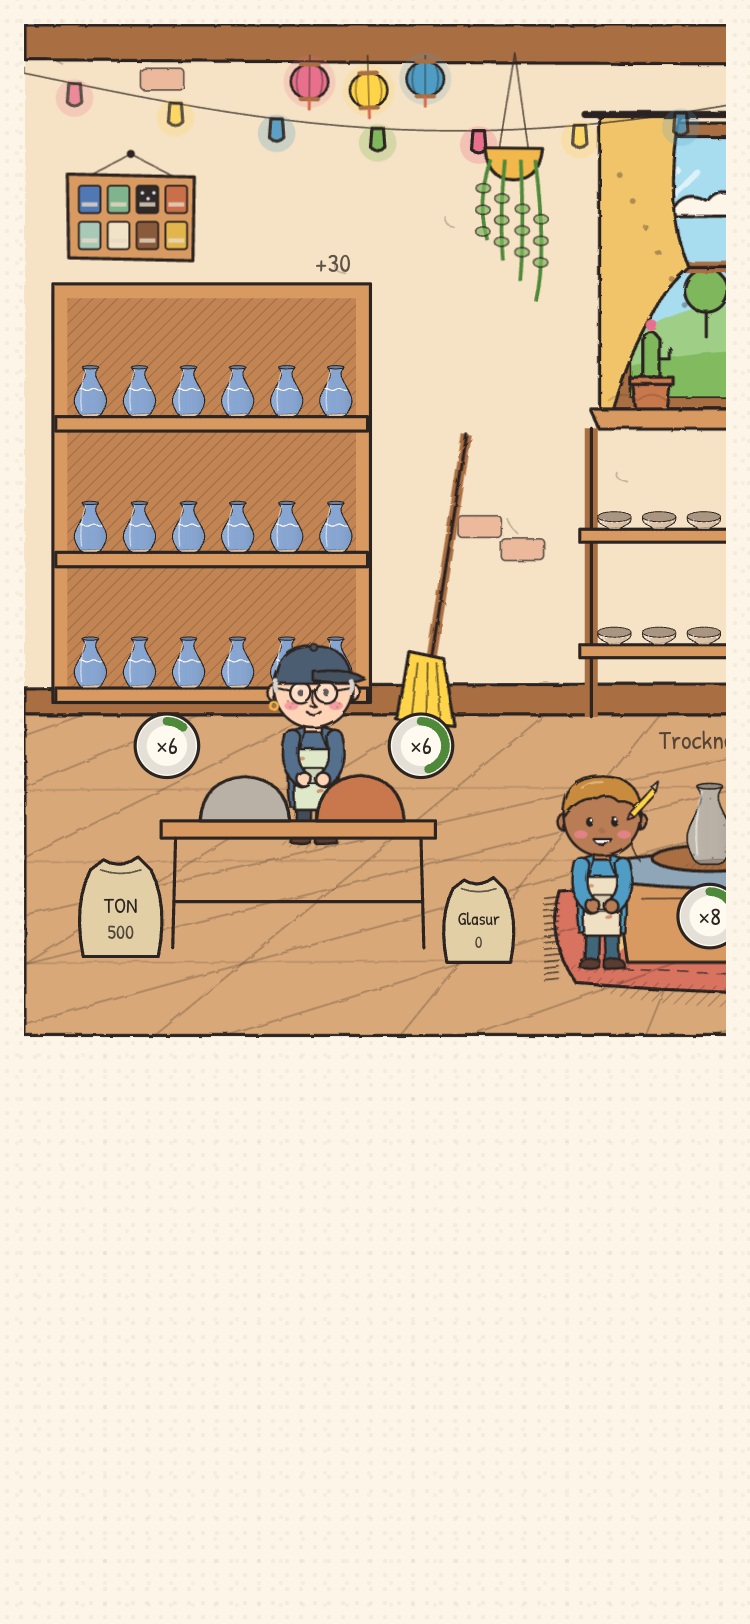
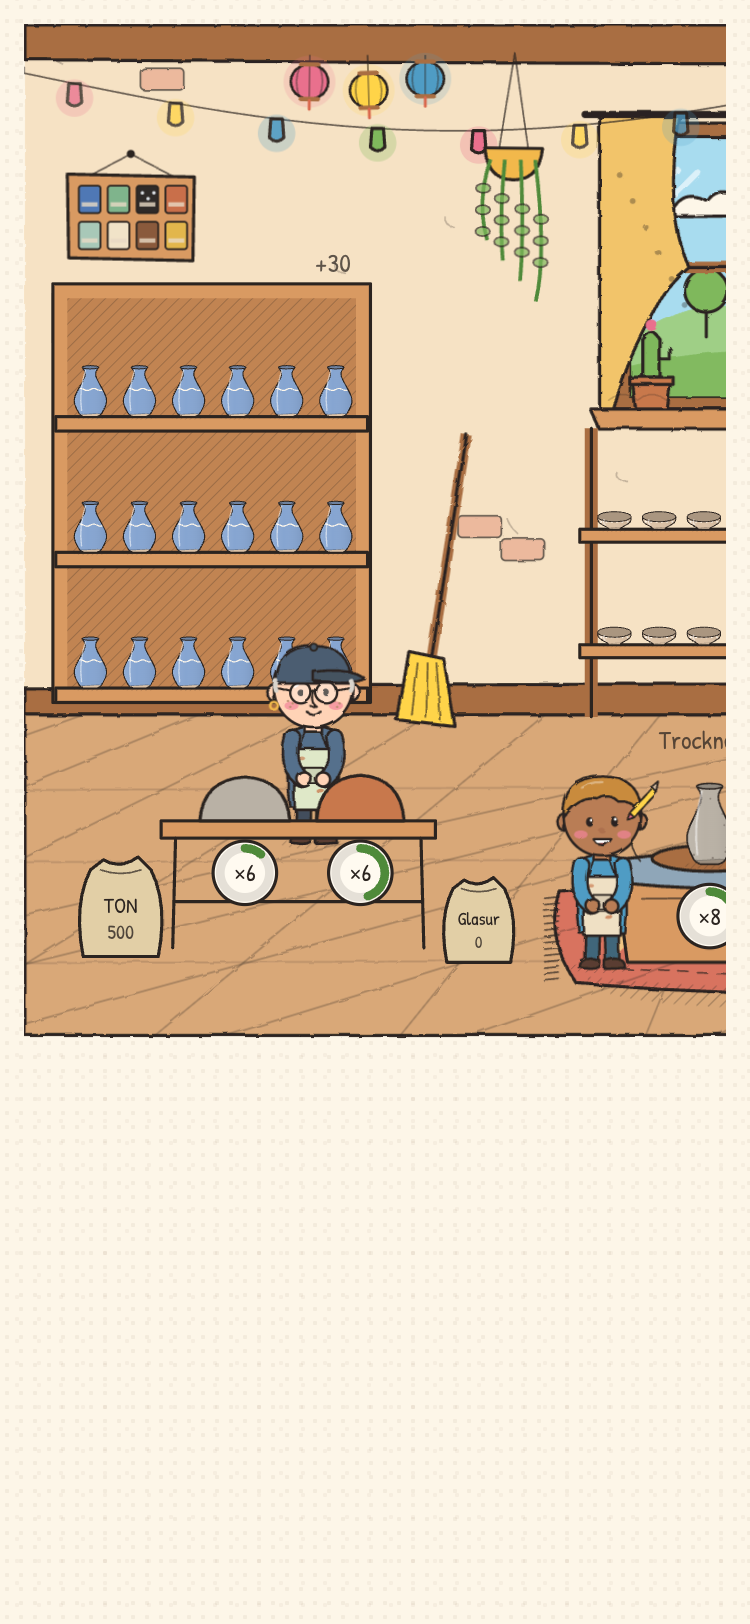
feat(art): overlays for the eight stoneware/porcelain effects; masterwork star off the worker
- Ölfleck, Hasenfell, Shino, Salzglasur, Blanc de Chine, Blau-Weiß, Ochsenblut, Eierschale overlays (≤ 40 elements each)
- Masterwork star sits by the pot (1–2 bays) or on its gauge (glaze table with 3 bays, prep bench)
- #pots "Edle Effekte" section; #scene dev flags &mw=<station>&bays=n; refreshed screenshots

diff --git a/src/client/art/Pot.tsx b/src/client/art/Pot.tsx
@@ -189,6 +189,103 @@ export function Effect({ s, effect, seed, base }: { s: PotShape; effect: string;
           })}
         </g>
       );
+    case 'oelfleck':
+      // silvery oil-spot drops floating on the upper two thirds, each with a tiny bright core
+      return (
+        <g data-effect="oelfleck">
+          {Array.from({ length: 12 }, (_, i) => {
+            const x = CX - w * 0.85 + rnd(seed, i) * 1.7 * w, y = top + 4 + rnd(seed, i + 20) * h * 0.6, r = 1 + rnd(seed, i + 40) * 1.5;
+            return (
+              <g>
+                <circle cx={x.toFixed(1)} cy={y.toFixed(1)} r={r.toFixed(2)} fill="#e8eef2" opacity="0.6" />
+                <circle cx={(x - r * 0.3).toFixed(1)} cy={(y - r * 0.3).toFixed(1)} r={(r * 0.4).toFixed(2)} fill="#fff" opacity="0.75" />
+              </g>
+            );
+          })}
+        </g>
+      );
+    case 'hasenfell': {
+      // fine brown hare's-fur streaks running down from below the rim
+      const n = 12;
+      return (
+        <g data-effect="hasenfell" stroke-linecap="round" fill="none" opacity="0.65">
+          {Array.from({ length: n }, (_, i) => {
+            const x = CX - w + ((i + 0.5) / n) * 2 * w + (rnd(seed, i) - 0.5) * 2.4;
+            const y0 = top + h * 0.15 + rnd(seed, i + 30) * 3, len = h * (0.3 + rnd(seed, i + 60) * 0.3);
+            const bend = (rnd(seed, i + 90) - 0.5) * 3;
+            return <path d={`M${x.toFixed(1)} ${y0.toFixed(1)} q${bend.toFixed(1)} ${(len / 2).toFixed(1)} ${(bend * 0.4).toFixed(1)} ${len.toFixed(1)}`} stroke={i % 3 === 1 ? '#e8b878' : '#5a3418'} stroke-width={(0.8 + rnd(seed, i + 120) * 0.6).toFixed(2)} />;
+          })}
+        </g>
+      );
+    }
+    case 'shino':
+      // milky glaze with a few warm, soft blushes (two layers each so the edge stays soft)
+      return (
+        <g data-effect="shino">
+          {Array.from({ length: 4 }, (_, i) => {
+            const x = CX - w * 0.75 + rnd(seed, i) * 1.5 * w, y = top + 6 + rnd(seed, i + 10) * (h - 14);
+            const rx = 6 + rnd(seed, i + 20) * 6, ry = 4 + rnd(seed, i + 30) * 4;
+            return (
+              <g fill="#e89a6a">
+                <ellipse cx={x.toFixed(1)} cy={y.toFixed(1)} rx={(rx * 1.35).toFixed(1)} ry={(ry * 1.35).toFixed(1)} opacity="0.18" />
+                <ellipse cx={x.toFixed(1)} cy={y.toFixed(1)} rx={rx.toFixed(1)} ry={ry.toFixed(1)} opacity="0.3" />
+              </g>
+            );
+          })}
+        </g>
+      );
+    case 'salzglasur': {
+      // orange-peel skin: a dense stipple a shade darker than the glaze
+      const ink = mix(base, '#000000', 0.25);
+      return (
+        <g data-effect="salzglasur" fill={ink} opacity="0.5">
+          {Array.from({ length: 36 }, (_, i) => <circle cx={(CX - w + rnd(seed, i) * 2 * w).toFixed(1)} cy={(top + 2 + rnd(seed, i + 50) * (h - 4)).toFixed(1)} r={(0.6 + rnd(seed, i + 100) * 0.4).toFixed(2)} />)}
+        </g>
+      );
+    }
+    case 'blancdechine':
+      // warm ivory wash with one soft vertical highlight
+      return (
+        <g data-effect="blancdechine">
+          <rect x="0" y={top} width="100" height={h} fill="#fff4dc" opacity="0.3" />
+          <path d={`M${(CX + w * 0.4).toFixed(1)} ${(top + h * 0.15).toFixed(1)} L${(CX + w * 0.36).toFixed(1)} ${(top + h * 0.8).toFixed(1)}`} stroke="#fffdf6" stroke-width="3" stroke-linecap="round" opacity="0.4" />
+        </g>
+      );
+    case 'blauweiss': {
+      // one or two cobalt brush tendrils with little leaves, painted under the clear glaze
+      const tendrils = 1 + Math.floor(rnd(seed, 1) * 2);
+      return (
+        <g data-effect="blauweiss" stroke="#22408a" fill="none" stroke-linecap="round" opacity="0.8">
+          {Array.from({ length: tendrils }, (_, t) => {
+            const y = top + h * (tendrils === 1 ? 0.45 : 0.3 + t * 0.35) + (rnd(seed, t + 5) - 0.5) * 4;
+            const amp = 3 + rnd(seed, t + 7) * 2, x0 = CX - w - 2, step = (2 * w + 4) / 4;
+            let d = `M${x0.toFixed(1)} ${y.toFixed(1)}`;
+            for (let k = 0; k < 4; k++) d += ` q${(step / 2).toFixed(1)} ${(k % 2 ? amp : -amp).toFixed(1)} ${step.toFixed(1)} 0`;
+            const leaves = Array.from({ length: 4 }, (_, k) => {
+              const lx = x0 + step * (k + 0.5), ly = y + (k % 2 ? amp : -amp) * 0.5, dir = k % 2 ? 1 : -1;
+              return <path d={`M${lx.toFixed(1)} ${ly.toFixed(1)} q${(3 * dir).toFixed(1)} ${(-4.5 * dir).toFixed(1)} ${(6.5 * dir).toFixed(1)} ${(-2 * dir).toFixed(1)} q${(-3 * dir).toFixed(1)} ${(3.4 * dir).toFixed(1)} ${(-6.5 * dir).toFixed(1)} ${(2 * dir).toFixed(1)} Z`} fill="#22408a" stroke-width="0.6" />;
+            });
+            return <g><path d={d} stroke-width="1.4" />{leaves}</g>;
+          })}
+        </g>
+      );
+    }
+    case 'ochsenblut':
+      // deep red pooling towards the foot, fading up to the glaze colour, and a lighter line where the glaze thins at the rim
+      return (
+        <g data-effect="ochsenblut">
+          <rect x="0" y={top} width="100" height={h} fill="url(#ochsenblut-pool)" />
+          <path d={`M${(CX - w).toFixed(1)} ${(top + 3).toFixed(1)} Q${CX} ${(top + 6).toFixed(1)} ${(CX + w).toFixed(1)} ${(top + 3).toFixed(1)}`} stroke={mix(base, '#ffffff', 0.45)} stroke-width="1.4" fill="none" opacity="0.6" />
+        </g>
+      );
+    case 'eierschale':
+      // eggshell-thin: a pale, translucent band at the top and a faint glow from inside
+      return (
+        <g data-effect="eierschale">
+          <ellipse cx={CX} cy={(top + h * 0.55).toFixed(1)} rx={(w * 0.65).toFixed(1)} ry={(h * 0.3).toFixed(1)} fill="#fffaf0" opacity="0.18" />
+          <path d={`M0 ${top} H100 V${(top + h * 0.2).toFixed(1)} Q75 ${(top + h * 0.24).toFixed(1)} 50 ${(top + h * 0.2).toFixed(1)} Q25 ${(top + h * 0.16).toFixed(1)} 0 ${(top + h * 0.2).toFixed(1)} Z`} fill="#ffffff" opacity="0.35" />
+        </g>
+      );
     default:
       return null;
   }

diff --git a/src/client/art/workshop/stations/Stations.tsx b/src/client/art/workshop/stations/Stations.tsx
@@ -56,13 +56,14 @@ function Progress({ x, y, batch, now }: { x: number; y: number; batch?: Batch; n
 }
 
 /** A little gold star ribbon on a masterwork in progress. */
-function MasterworkTag({ x, y }: { x: number; y: number }) {
+/** A little rosette star marking a masterwork, anchored at its centre; `scale` shrinks it in place. */
+function MasterworkTag({ x, y, scale = 1 }: { x: number; y: number; scale?: number }) {
   const pts = Array.from({ length: 10 }, (_, i) => {
     const a = -Math.PI / 2 + (i * Math.PI) / 5, r = i % 2 ? 4 : 9;
     return `${(x + r * Math.cos(a)).toFixed(1)} ${(y + r * Math.sin(a)).toFixed(1)}`;
   });
   return (
-    <g class="masterwork-tag" data-masterwork="">
+    <g class="masterwork-tag" data-masterwork="" transform={scale !== 1 ? `translate(${x} ${y}) scale(${scale}) translate(${-x} ${-y})` : undefined}>
       <path d={`M${x - 4} ${y + 4} L${x - 9} ${y + 20} L${x - 4} ${y + 16} L${x - 1} ${y + 21} Z M${x + 4} ${y + 4} L${x + 9} ${y + 20} L${x + 4} ${y + 16} L${x + 1} ${y + 21} Z`} fill="var(--kiln)" style={inkStyle(1.1)} />
       <path d={`M${pts.join(' L')} Z`} fill="var(--sun)" style={inkStyle(1.5)} />
     </g>
@@ -248,7 +249,7 @@ export function GlazeTable({ x, y, state, running, waiting, now }: StationProps)
             <g style={{ animationDelay: `${i * 0.4}s` }} class={on ? 'dip' : undefined}>
               <ScenePot x={px} y={top} size={items.length > 2 ? 40 : items.length > 1 ? 46 : 52} design={d} color={on ? glazeColorOf(state, d) : BISQUE} />
             </g>
-            {b.masterwork && <MasterworkTag x={px} y={top - 62} />}
+            {b.masterwork && items.length <= 2 && <MasterworkTag x={px + 16} y={top - 34} scale={0.7} />}
           </g>
         ) : null;
       })}
@@ -260,6 +261,8 @@ export function GlazeTable({ x, y, state, running, waiting, now }: StationProps)
         : running.length > 1
         ? running.map((b, i) => <Progress x={left + w + 14} y={top - 22 - i * 50} batch={b} now={now} />)
         : <Progress x={left + w + 10} y={top - 70} batch={running[0]} now={now} />}
+      {/* three bays crowd the worker behind the pots, so the star pins onto that bay's gauge instead */}
+      {items.length > 2 && items.map(({ b }, i) => (b.masterwork ? <MasterworkTag x={left + 80 + i * 48 + 15} y={top + 18} scale={0.7} /> : null))}
     </g>
   );
 }
@@ -327,7 +330,6 @@ export function PrepBench({ x, y, state, running, now }: StationProps) {
         return (
           <g>
             <path d={`M${lx - 30} ${top} Q${lx - 28} ${top - 30} ${lx} ${top - 32} Q${lx + 28} ${top - 30} ${lx + 30} ${top} Z`} fill={d ? rawClay(d) : CLAY} style={{ ...S, animationDelay: `${i * 0.3}s` }} class={b ? 'knead' : undefined} />
-            {b?.masterwork && <MasterworkTag x={lx + 22} y={top - 40} />}
           </g>
         );
       })}
@@ -343,6 +345,10 @@ export function PrepBench({ x, y, state, running, now }: StationProps) {
       {running.length > 1
         ? running.map((b, i) => <Progress x={left + (running.length > 2 ? 38 : 58) + i * lumpStep} y={top + 36} batch={b} now={now} />)
         : <Progress x={left + w - 10} y={top - 52} batch={running[0]} now={now} />}
+      {/* the worker stands right behind the lumps, so the masterwork star pins onto its gauge */}
+      {running.map((b, i) => (!b.masterwork ? null : running.length > 1
+        ? <MasterworkTag x={left + (running.length > 2 ? 38 : 58) + i * lumpStep + 15} y={top + 18} scale={0.7} />
+        : <MasterworkTag x={left + w + 5} y={top - 70} scale={0.7} />))}
     </g>
   );
 }

diff --git a/src/client/dev/PotsPage.tsx b/src/client/dev/PotsPage.tsx
@@ -20,6 +20,18 @@ const EFFECT_GLAZES: [string, Pick<GlazeRecipe, 'base' | 'colorant' | 'colorantP
   ['kristall', { base: 'matt', colorant: 'kobalt', colorantPct: 2, firing: F('hoch', 'oxidierend', 'langsam') }],
 ];
 
+/** The stoneware and porcelain effects, each with a recipe that finds it. */
+const BODY_EFFECT_GLAZES: [string, BodyId, Pick<GlazeRecipe, 'base' | 'colorant' | 'colorantPct' | 'firing'>][] = [
+  ['oelfleck', 'steinzeug', { base: 'opak', colorant: 'eisenoxid', colorantPct: 8, firing: F('hoch', 'oxidierend', 'langsam') }],
+  ['hasenfell', 'steinzeug', { base: 'transparent', colorant: 'eisenoxid', colorantPct: 5, firing: F('hoch', 'reduzierend', 'langsam') }],
+  ['shino', 'steinzeug', { base: 'matt', colorant: null, colorantPct: 0, firing: F('hoch', 'oxidierend', 'langsam') }],
+  ['salzglasur', 'steinzeug', { base: 'transparent', colorant: 'salz', colorantPct: 3, firing: F('hoch', 'oxidierend', 'schnell') }],
+  ['blancdechine', 'porzellan', { base: 'opak', colorant: null, colorantPct: 0, firing: F('hoch', 'oxidierend', 'langsam') }],
+  ['blauweiss', 'porzellan', { base: 'transparent', colorant: 'kobalt', colorantPct: 1.5, firing: F('hoch', 'oxidierend', 'langsam') }],
+  ['ochsenblut', 'porzellan', { base: 'opak', colorant: 'kupferoxid', colorantPct: 4, firing: F('hoch', 'reduzierend', 'langsam') }],
+  ['eierschale', 'porzellan', { base: 'matt', colorant: null, colorantPct: 0, firing: F('hoch', 'oxidierend', 'schnell') }],
+];
+
 const EXTREMES = [
   { height: 0, belly: 0, neck: 0, foot: 0, rim: 0 },
   { height: 1, belly: 1, neck: 1, foot: 1, rim: 1 },
@@ -63,6 +75,17 @@ export function PotsPage() {
         <div style={{ display: 'flex', flexWrap: 'wrap', gap: '8px' }}>
           {EFFECT_GLAZES.flatMap(([eff, g]) => ['vase', 'schale', 'becher'].map((f) => <div style={{ textAlign: 'center' }}><Pot design={design(f, 1)} glazeColor={glazeColor(g)} effect={eff} size={110} /><div>{eff}</div></div>))}
         </div>
+      </section>
+      <section>
+        <h3>Edle Effekte</h3>
+        {BODY_EFFECT_GLAZES.map(([eff, body, g]) => (
+          <div>
+            <div>{eff}</div>
+            <div style={{ display: 'flex', flexWrap: 'wrap', gap: '4px' }}>
+              {['vase', 'becher', 'schale', 'teller', 'teekanne', 'figur', 'fliese'].map((f, i) => <Pot design={{ ...design(f, i, 'none', body), id: `${eff}${f}` }} glazeColor={glazeColor(g)} effect={eff} size={96} />)}
+            </div>
+          </div>
+        ))}
       </section>
       <section>
         <h3>Tonsorten</h3>

diff --git a/test/client/pot.test.tsx b/test/client/pot.test.tsx
@@ -1,9 +1,9 @@
 import { render } from 'preact-render-to-string';
 import { describe, expect, it } from 'vitest';
 import { MarkFrame } from '../../src/client/art/markFrame';
-import { Pot } from '../../src/client/art/Pot';
+import { Effect, Pot } from '../../src/client/art/Pot';
 import { potShape } from '../../src/client/art/potShape';
-import { BODIES, FORMS, FRAMES } from '../../src/shared/content';
+import { BODIES, EFFECTS, FORMS, FRAMES } from '../../src/shared/content';
 import { PATTERN_UNLOCK } from '../../src/shared/design';
 import type { BodyId, PatternKind } from '../../src/shared/types';
 
@@ -122,6 +122,27 @@ describe('Pot art: porcelain, figurines, tiles, Schuppen, crown', () => {
       const html = render(<Pot design={piece(form, { pattern: 'schuppen', patternColor: '#123456' })} glazeColor="#3f6fb5" />);
       expect((html.match(/data-scale/g) ?? []).length).toBeGreaterThanOrEqual(6);
       expect(html).toContain('#123456');
+    }
+  });
+});
+
+describe('[Final fix #2] effect overlays', () => {
+  it('every effect draws an overlay of at most ~40 elements on pots, plates, tiles and figures', () => {
+    const shape = potShape('vase', FORMS.vase.profileDefaults, 'plain', 'none');
+    for (const id of Object.keys(EFFECTS)) {
+      const overlay = Effect({ s: shape, effect: id, seed: 12345, base: '#3f6fb5' });
+      expect(overlay, id).not.toBeNull();
+      const html = render(overlay!);
+      expect(html, id).not.toMatch(/NaN|undefined/);
+      expect((html.match(/<(circle|ellipse|path|rect)\b/g) ?? []).length, id).toBeGreaterThan(0);
+      expect((html.match(/<(circle|ellipse|path|rect)\b/g) ?? []).length, id).toBeLessThanOrEqual(40);
+      for (const form of ['becher', 'teller', 'fliese', 'figur']) {
+        const design = { ...cup, form, profile: FORMS[form].profileDefaults, pattern: 'none' as PatternKind, body: (EFFECTS[id].body ?? 'irdenware') as BodyId };
+        const plain = render(<Pot design={design} glazeColor="#3f6fb5" />);
+        const withEffect = render(<Pot design={design} glazeColor="#3f6fb5" effect={id} />);
+        expect(withEffect.length, `${id} on ${form}`).toBeGreaterThan(plain.length);
+        expect(withEffect, `${id} on ${form}`).not.toMatch(/NaN|undefined/);
+      }
     }
   });
 });

diff --git a/src/client/dev/ScenePage.tsx b/src/client/dev/ScenePage.tsx
@@ -2,7 +2,7 @@ import { useEffect, useState } from 'preact/hooks';
 import { advance } from '../../shared/advance';
 import { glazeColor } from '../../shared/discovery';
 import { newGame, rollWorker } from '../../shared/state';
-import type { GameState } from '../../shared/types';
+import type { Batch, GameState, StationKind } from '../../shared/types';
 import { WorkshopScene } from '../art/workshop/WorkshopScene';
 import { mockEndgame } from './mockEndgame';
 
@@ -32,9 +32,27 @@ export function mockWorkshop(now: number): GameState {
   return s;
 }
 
+const MW_STAGE: Partial<Record<StationKind, Batch['stage']>> = { prepBench: 'prepare', wheel: 'form', glazeTable: 'glaze' };
+
+/** `&mw=wheel` moves the masterwork to that station; `&bays=1` clears the other batches there (a waiting batch may still move into a freed bay). */
+function placeMasterwork(s: GameState, hash: string): GameState {
+  const kind = /mw=(\w+)/.exec(hash)?.[1] as StationKind | undefined;
+  const mw = s.batches.find((b) => b.masterwork);
+  const st = kind && s.stations.find((x) => x.kind === kind);
+  if (!mw || !st || !MW_STAGE[st.kind]) return s;
+  mw.stage = MW_STAGE[st.kind]!;
+  mw.stationId = st.id;
+  const bays = Number(/bays=(\d)/.exec(hash)?.[1] ?? 0);
+  if (bays) {
+    const others = s.batches.filter((b) => b !== mw && b.stationId === st.id);
+    s.batches = s.batches.filter((b) => !others.slice(Math.max(0, bays - 1)).includes(b));
+  }
+  return s;
+}
+
 export function ScenePage() {
   const [now, setNow] = useState(Date.now());
-  const [state] = useState(() => (location.hash.includes('endgame') ? mockEndgame(Date.now(), location.hash.includes('hof') ? 'hofmanufaktur' : 'manufaktur') : mockWorkshop(Date.now())));
+  const [state] = useState(() => (location.hash.includes('endgame') ? placeMasterwork(mockEndgame(Date.now(), location.hash.includes('hof') ? 'hofmanufaktur' : 'manufaktur'), location.hash) : mockWorkshop(Date.now())));
   useEffect(() => { const t = setInterval(() => setNow(Date.now()), 250); return () => clearInterval(t); }, []);
   const view = advance(state, now);
   return (

diff --git a/src/client/art/ArtDefs.tsx b/src/client/art/ArtDefs.tsx
@@ -31,6 +31,12 @@ export function ArtDefs() {
           <stop offset="55%" stop-color="#fffdf6" stop-opacity="0.6" />
           <stop offset="100%" stop-color="#fffdf6" stop-opacity="0" />
         </radialGradient>
+        {/* Ochsenblut: deep red pooling towards the foot */}
+        <linearGradient id="ochsenblut-pool" x1="0" x2="0" y1="0" y2="1">
+          <stop offset="0%" stop-color="#5a0a12" stop-opacity="0" />
+          <stop offset="35%" stop-color="#5a0a12" stop-opacity="0.08" />
+          <stop offset="100%" stop-color="#5a0a12" stop-opacity="0.6" />
+        </linearGradient>
       </defs>
     </svg>
   );
